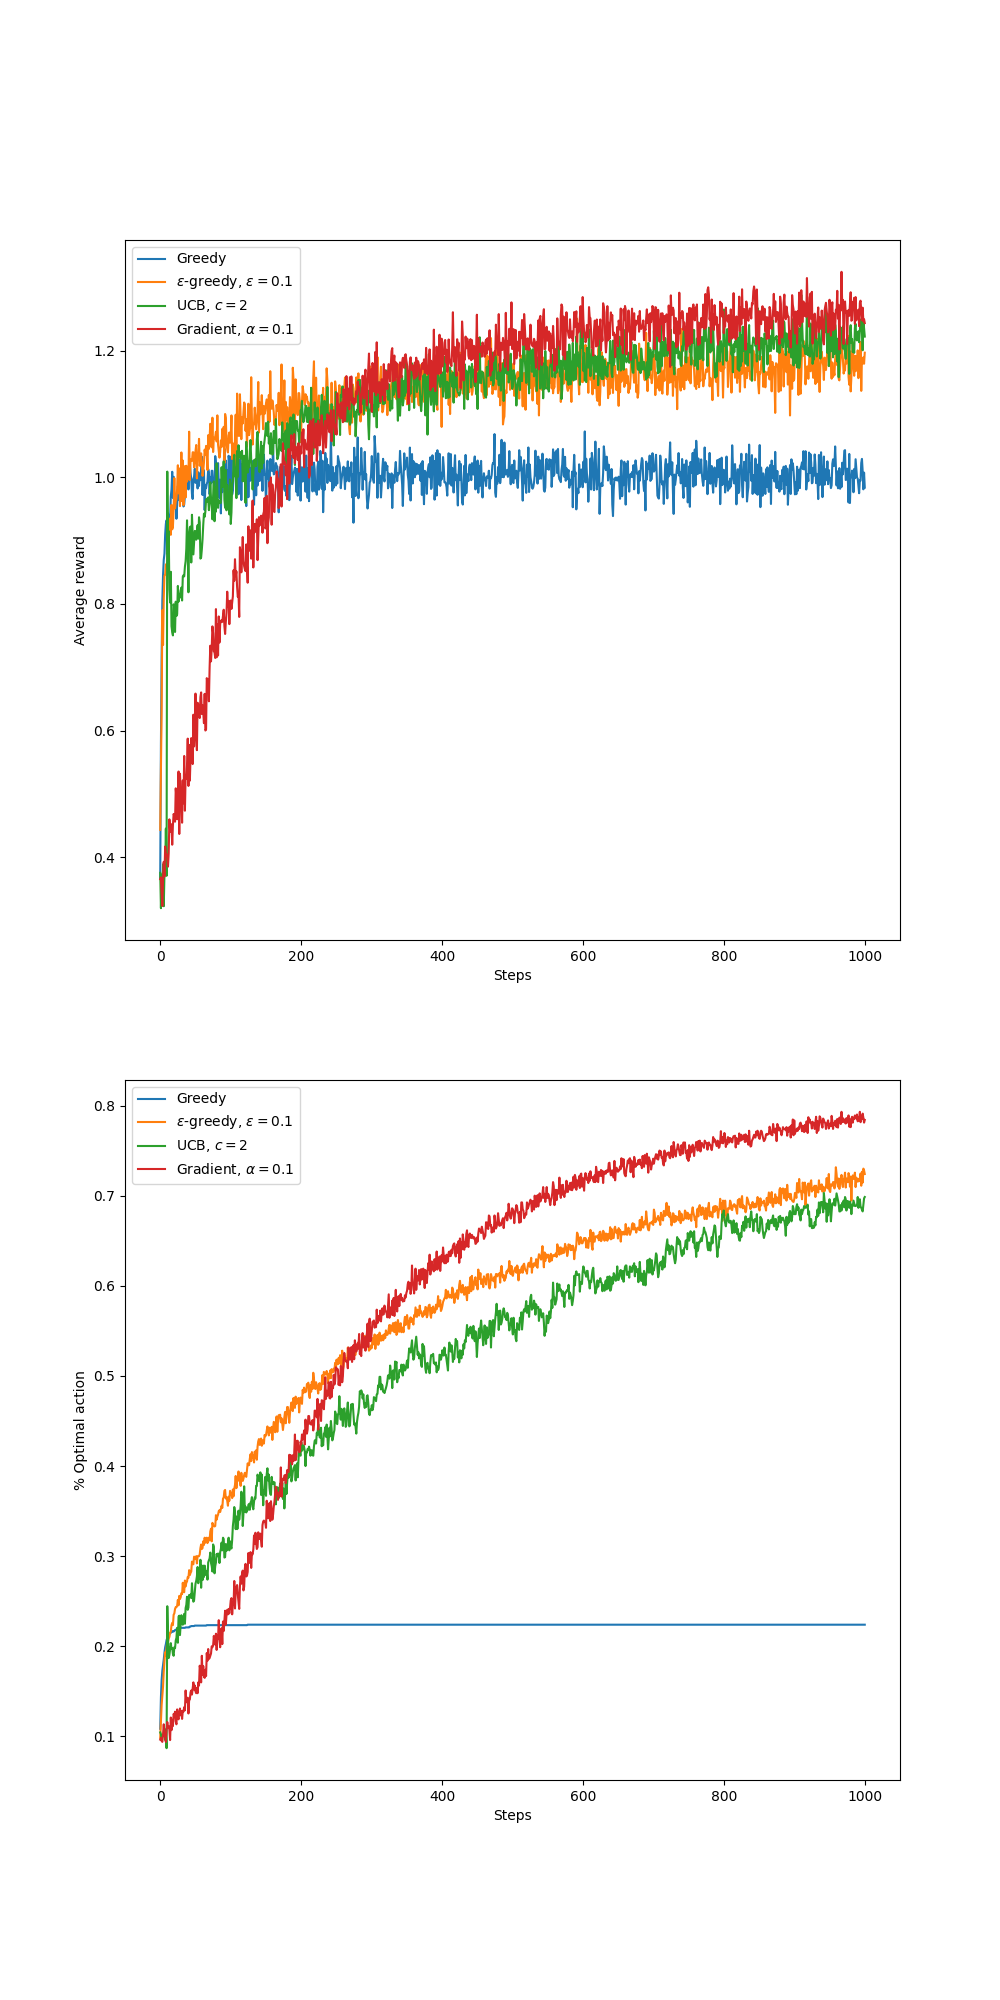
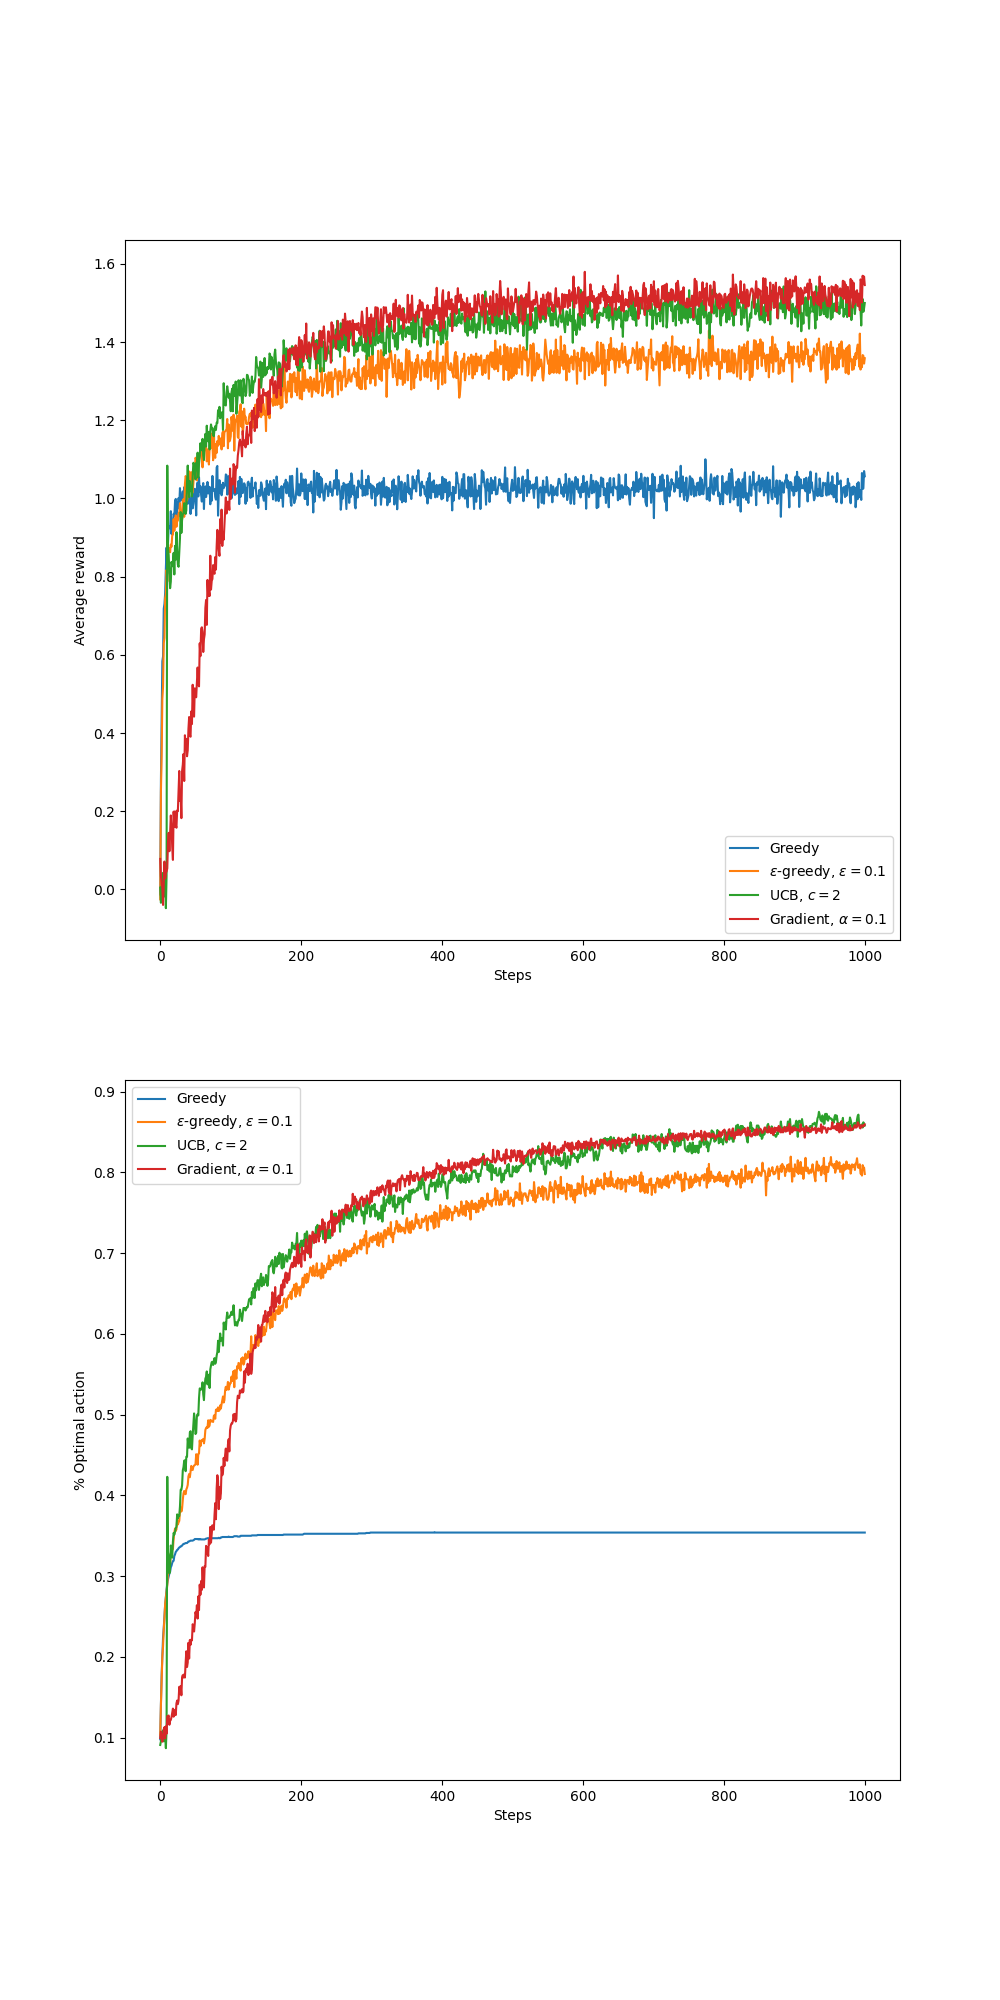
Bandit fixes

diff --git a/k_armed_bandit/k_armed_bandit.py b/k_armed_bandit/k_armed_bandit.py
@@ -11,27 +11,25 @@ K = 10
 class Action:
     def __init__(self, distribution=None):
         self.mean = np.random.randn()
-        self.distribution = distribution if distribution else np.random.choice(["normal", "constant", "uniform"], p=[1, 0, 0])
-        self.get_reward = self.generate_distribution()
+        self.distribution = distribution if distribution is not None else np.random.choice(["normal", "constant", "uniform"], p=[1, 0, 0])
     
-    def generate_distribution(self):
+    def get_reward(self):
         if self.distribution == "normal":
-            return lambda: np.random.randn() + self.mean
+            return np.random.randn() + self.mean
         elif self.distribution == "uniform":
-            return lambda: np.random.rand() + self.mean
+            return np.random.rand() + self.mean
         else:
-            return lambda: self.mean
+            return self.mean
 
 def simulate(strategies, runs=2000, time=1000):
-    actions = [Action() for _ in range(K)]
-    best_action = np.argmax([action.mean for action in actions])
-
     rewards = np.zeros((len(strategies), runs, time))
     best_action_choices = np.zeros(rewards.shape)
 
     for i, strategy in enumerate(strategies):
         print(f"Running strategy {i + 1}/{len(strategies)}...")
         for r in trange(runs):
+            actions = [Action() for _ in range(K)]
+            best_action = np.argmax([action.mean for action in actions])
             strategy.reset()
             for t in range(time):
                 action = strategy.act()
@@ -52,15 +50,15 @@ def plot_results(strategies, rewards, best_action_choices):
     plt.figure(figsize=(10, 20))
     plt.subplot(2,1,1)
 
-    for s, r in zip(strategies, rewards):
-        plt.plot(r, label=f"{s.name}")
+    for strategy, reward in zip(strategies, rewards):
+        plt.plot(reward, label=f"{strategy.name}")
     plt.xlabel('Steps')
     plt.ylabel('Average reward')
     plt.legend()
 
     plt.subplot(2,1,2)
-    for s, c in zip(strategies, best_action_choices):
-        plt.plot(c, label=f"{s.name}")
+    for strategy, choices in zip(strategies, best_action_choices):
+        plt.plot(choices, label=f"{strategy.name}")
     plt.xlabel('Steps')
     plt.ylabel('% Optimal action')
     plt.legend()
